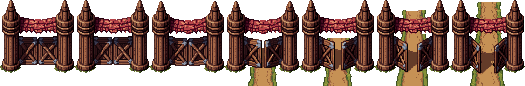
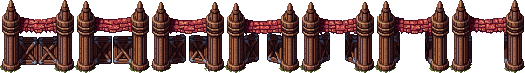
fix: villagers stay visible while they walk through an open village gate
Walkers through the south gate were drawn under the whole gate sprite, and the open
frames are opaque across the passage, so a villager vanished for about three seconds
on both the palisade and the stone gate. The gate is now drawn twice around them:
whole underneath, then clipped to everything but its doorway on top, so the towers,
the lintel and the arch still cover them and the doorway does not. The export writes
each gate's doorway into layout.json, and GATE_Z keeps the draw order in one place.

The open palisade frames also painted a road of their own through the gateway, in
other colours than the village road. New frames leave the gateway empty, and the wall
ring gets a gap behind the doorway, so the village road shows between the open doors.

diff --git a/tests/pixelScene.test.tsx b/tests/pixelScene.test.tsx
@@ -6,6 +6,8 @@ import { useGameStore } from '../src/state/gameStore';
 import { useUiStore } from '../src/state/uiStore';
 import { PixelVillageScene } from '../src/ui/scene/pixel/PixelVillageScene';
 import { useWalkerLoop } from '../src/ui/scene/pixel/Walkers';
+import { wallLayers } from '../src/ui/scene/pixel/WallRing';
+import { buildRoutes, gateOpen } from '../src/ui/scene/pixel/routes';
 import { LAYOUT } from '../src/ui/scene/pixel/layout';
 import { newDefaultGame, activeVillage } from './helpers';
 
@@ -140,6 +142,38 @@ describe('pixel village scene', () => {
       const gate = scene().querySelector(`[data-anim="${kind}-gate"]`)!;
       const foot = Number(gate.getAttribute('y')) + closedFoot[kind];
       expect(Math.abs(foot - wallBase), `${kind} gate foot ${foot}, wall base ${wallBase}`).toBeLessThanOrEqual(4);
+      cleanup();
+    }
+  });
+
+  it('walkers through the gate draw over the whole gate and under its front, after every front wall strip', () => {
+    const levels = { ...Object.fromEntries(BUILDING_IDS.map((id) => [id, 0])), main: 5, wood: 5 } as Record<BuildingId, number>;
+    const routes = buildRoutes({ levels, construction: [{ building: 'main', ratio: 0.2, started: true }] }, { citizens: 10, guards: 0 });
+    const through = routes.filter((r) => r.points.some((p) => gateOpen([p], LAYOUT.gates.s)));
+    expect(through.map((r) => r.state).sort()).toEqual(['carry_log', 'walk']);
+    for (const kind of ['palisade', 'stone'] as const) {
+      const layers = wallLayers(kind, 6);
+      const z = (key: string) => layers.find((l) => l.key === key)?.z ?? NaN;
+      const strips = layers.filter((l) => l.key.startsWith('wall-f')).map((l) => l.z);
+      expect(Math.max(...strips), kind).toBeLessThan(z('wall-gate'));
+      for (const r of through) {
+        expect(r.z, `${kind} ${r.state}`).toBeGreaterThan(z('wall-gate'));
+        expect(r.z, `${kind} ${r.state}`).toBeLessThan(z('wall-gate-front'));
+      }
+    }
+  });
+
+  it('the gate front shows the same frame as the gate, clipped by a shape defined in the scene', () => {
+    for (const [kind, wall] of [['palisade', 1], ['stone', 20]] as const) {
+      setup({ main: 5, wall });
+      const c = scene();
+      const gate = c.querySelector(`[data-anim="${kind}-gate"]`)!;
+      const front = c.querySelector(`[data-anim="${kind}-gate-front"]`);
+      expect(front, kind).not.toBeNull();
+      expect(front!.innerHTML).toBe(gate.innerHTML);
+      expect(['x', 'y'].map((a) => front!.getAttribute(a))).toEqual(['x', 'y'].map((a) => gate.getAttribute(a)));
+      const id = /^url\(#(.+)\)$/.exec(front!.parentElement!.getAttribute('clip-path') ?? '')?.[1];
+      expect(c.querySelector(`clipPath[id="${id}"] path`), kind).not.toBeNull();
       cleanup();
     }
   });

diff --git a/src/ui/scene/pixel/WallRing.tsx b/src/ui/scene/pixel/WallRing.tsx
@@ -1,13 +1,15 @@
 import { t } from '../../../i18n/i18n';
-import type { ReactNode } from 'react';
 import type { BuildingId } from '../../../engine/types';
 import type { DayPhase } from '../sceneModel';
 import { LevelBadge } from './LevelBadge';
-import { LAYOUT, pixelUrl, type Layer, type WallKind } from './layout';
+import { GATE_Z, LAYOUT, pixelUrl, type Layer, type WallKind } from './layout';
 import { Strip } from './Strip';
 
-/** Wall ring as 8 px columns: back halves sort behind the buildings inside, front halves in front of them. */
-export function wallLayers(kind: WallKind, gateFrame: number, gate: (node: ReactNode) => ReactNode = (n) => n): Layer[] {
+/**
+ * Wall ring as 8 px columns: back halves sort behind the buildings inside, front halves in front of them. The gate is drawn
+ * twice around the walkers going through it: whole, then clipped to everything but its doorway.
+ */
+export function wallLayers(kind: WallKind, gateFrame: number): Layer[] {
   const wall = LAYOUT.walls[kind];
   const back = pixelUrl(wall.back);
   const front = pixelUrl(wall.front);
@@ -27,11 +29,28 @@ export function wallLayers(kind: WallKind, gateFrame: number, gate: (node: React
     }
   }
   const g = wall.gate;
-  layers.push({
-    z: LAYOUT.ring.cy + LAYOUT.ring.ry + 3,
-    key: 'wall-gate',
-    node: gate(<Strip name={`${kind}-gate`} file={g.file} w={g.w} h={g.h} frames={g.frames} frame={gateFrame} x={Math.floor(g.x - g.w / 2)} y={Math.floor(g.y - g.foot)} />),
-  });
+  const x = Math.floor(g.x - g.w / 2);
+  const y = Math.floor(g.y - g.foot);
+  const strip = { file: g.file, w: g.w, h: g.h, frames: g.frames, frame: gateFrame, x, y };
+  const box = (x0: number, y0: number, x1: number, y1: number) => `M${x + x0} ${y + y0}h${x1 - x0}v${y1 - y0}h${x0 - x1}z`;
+  const clip = `px-gate-front-${kind}`;
+  layers.push(
+    { z: GATE_Z.gate, key: 'wall-gate', node: <Strip name={`${kind}-gate`} {...strip} /> },
+    {
+      z: GATE_Z.front,
+      key: 'wall-gate-front',
+      node: (
+        <>
+          <clipPath id={clip}>
+            <path d={box(0, 0, g.w, g.h) + g.doorway.map((d) => box(...d)).join('')} clipRule="evenodd" />
+          </clipPath>
+          <g clipPath={`url(#${clip})`}>
+            <Strip name={`${kind}-gate-front`} {...strip} />
+          </g>
+        </>
+      ),
+    },
+  );
   return layers;
 }
 

diff --git a/src/ui/scene/pixel/routes.ts b/src/ui/scene/pixel/routes.ts
@@ -1,6 +1,6 @@
 import type { BuildingId } from '../../../engine/types';
 import type { SceneModel } from '../sceneModel';
-import { LAYOUT } from './layout';
+import { GATE_Z, LAYOUT } from './layout';
 import { loop, type Pt } from './path';
 
 export type WalkerState = 'walk' | 'carry_log' | 'carry_sack' | 'spear';
@@ -19,8 +19,6 @@ export interface Route {
 const ORDER: BuildingId[] = ['main', 'barracks', 'market', 'stable', 'academy', 'smithy', 'storage', 'workshop', 'hide'];
 const SPEED = 17;
 const GUARD_SPEED = 12;
-/** Through the south gate: drawn over the front wall, under the gatehouse. */
-const GATE_Z = LAYOUT.ring.cy + LAYOUT.ring.ry + 2;
 
 function road(key: string): Pt[] | null {
   return LAYOUT.roads[key]?.points ?? null;
@@ -49,13 +47,13 @@ export function buildRoutes(m: Pick<SceneModel, 'levels' | 'construction'>, budg
     const gate = road('gate')!.slice(1);
     const [gx] = LAYOUT.gates.s;
     const outside: Pt = [gx, LAYOUT.ring.cy + LAYOUT.ring.ry + 60];
-    extras.push({ state: 'walk', points: loop([...gate].reverse().concat([outside])), offset: 20, speed: SPEED, z: GATE_Z });
+    extras.push({ state: 'walk', points: loop([...gate].reverse().concat([outside])), offset: 20, speed: SPEED, z: GATE_Z.walker });
     const site = m.construction.find((c) => c.started)?.building;
     const siteRoad = site ? road(site) : null;
     const wood = road('wood');
     if (siteRoad && levels.wood > 0 && wood) {
       const fork: Pt = [gx + 6, LAYOUT.ring.cy + LAYOUT.ring.ry + 26];
-      extras.push({ state: 'carry_log', points: loop([...wood].reverse().concat([fork], gate, siteRoad.slice(1))), offset: 0, speed: SPEED, z: GATE_Z });
+      extras.push({ state: 'carry_log', points: loop([...wood].reverse().concat([fork], gate, siteRoad.slice(1))), offset: 0, speed: SPEED, z: GATE_Z.walker });
     }
     const storage = road('storage');
     if (siteRoad && site !== 'storage' && levels.storage > 0 && storage) {

diff --git a/src/ui/scene/pixel/layout.ts b/src/ui/scene/pixel/layout.ts
@@ -31,8 +31,11 @@ export interface PixelLayout {
   walls: Record<WallKind, {
     x: number; y: number; w: number; h: number; back: string; front: string;
     strips: { x0: number; zBack: number; zFront: number }[];
-    /** `y` is where the closed gate stands; `foot` is that row inside a frame, above the open doors' swing. */
-    gate: StripInfo & { x: number; y: number; foot: number };
+    /**
+     * `y` is where the closed gate stands; `foot` is that row inside a frame, above the open doors' swing. `doorway` is
+     * where walkers pass, as [x0, y0, x1, y1) boxes inside a frame.
+     */
+    gate: StripInfo & { x: number; y: number; foot: number; doorway: [number, number, number, number][] };
   }>;
   anim: {
     iron: StripInfo & { stage: 2 };
@@ -46,6 +49,13 @@ export interface PixelLayout {
 export interface Layer { z: number; key: string; node: ReactNode }
 
 export const LAYOUT = raw as unknown as PixelLayout;
+
+const WALL_BASE = LAYOUT.ring.cy + LAYOUT.ring.ry;
+/**
+ * Draw order at the south gate. The front wall strips reach `WALL_BASE + 1`. Over them goes the whole gate, then the
+ * walkers going through it, then the gate again without its doorway, so its towers and lintel cover them and the doorway does not.
+ */
+export const GATE_Z = { gate: WALL_BASE + 1.5, walker: WALL_BASE + 2, front: WALL_BASE + 3 };
 
 const URLS = import.meta.glob<string>('../../../assets/pixel/village/**/*.png', { eager: true, query: '?url', import: 'default' });
 const PREFIX = '../../../assets/pixel/village/';

diff --git a/tests/pixelLayout.test.ts b/tests/pixelLayout.test.ts
@@ -36,6 +36,20 @@ describe('pixel layout', () => {
     expect([0, 1, 2, 3].map((v) => wallKind(v as 0 | 1 | 2 | 3))).toEqual([null, 'palisade', 'palisade', 'stone']);
   });
 
+  it('the doorway of both gates holds a walker standing in the gate on the wall base, so the gate front leaves it uncovered', () => {
+    // Opaque columns of a walker sprite around its anchor, and the part of its height that must show between the open doors.
+    const half = 7;
+    const body = 20;
+    const [x, foot] = [LAYOUT.gates.s[0], LAYOUT.ring.cy + LAYOUT.ring.ry];
+    for (const kind of ['palisade', 'stone'] as const) {
+      const g = LAYOUT.walls[kind].gate;
+      const left = Math.floor(g.x - g.w / 2);
+      const top = Math.floor(g.y - g.foot);
+      const holds = g.doorway.some(([x0, y0, x1, y1]) => left + x0 <= x - half && x + half <= left + x1 && top + y0 <= foot - body && foot <= top + y1);
+      expect(holds, `${kind} doorway ${JSON.stringify(g.doorway)}`).toBe(true);
+    }
+  });
+
   it('ringY gives cy ± ry on the vertical axis and cy outside the ellipse', () => {
     const { cx, cy, ry, rx } = LAYOUT.ring;
     expect(ringY(cx, 'north')).toBeCloseTo(cy - ry);

diff --git a/scripts/pixel/export.py b/scripts/pixel/export.py
@@ -87,18 +87,26 @@ shutil.rmtree(OUT, ignore_errors=True)
 os.makedirs(OUT)
 tmp = tempfile.mkdtemp()
 
+# Where walkers pass through each gate, as [x0, y0, x1, y1) boxes in its frames: between the towers below the lintel (palisade),
+# the arch and the paving in front of it (stone). The game draws the gate again over walkers with these left out.
+DOORWAY = {'palisade': [[21, 33, 54, 73]], 'stone': [[32, 57, 66, 107]]}
+
 walls, ring, gates = {}, None, None
-for kind, name, gate_dir in (('stone', 'wall-ring-big', 'stone-gate'), ('palisade', 'wall-ring-palisade', 'palisade-gate')):
+for kind, name, gate_dir in (('stone', 'wall-ring-big', 'stone-gate'), ('palisade', 'wall-ring-palisade', 'palisade-gate-empty-1')):
     r = parts.ring_split(A, name, G.RING)
     ring, gates = r['ring'], r['gates']
     gfs = union_crop([Image.open(f).convert('RGBA') for f in numbered(f'{A}/anim/{gate_dir}/frame_*.png')])
     gw, gh = gfs[0].size
+    gate = {'file': save(strip(gfs), f'walls/{kind}-gate.png'), 'w': gw, 'h': gh, 'frames': len(gfs),
+            'x': r1(gates['s'][0]), 'y': r1(gates['s'][1] + 4), 'foot': gfs[0].getbbox()[3], 'doorway': DOORWAY[kind]}
+    # The ring runs on behind the gate; open its front half behind the doorway, so the road shows between the open doors.
+    gx, gy = math.floor(gate['x'] - gw / 2) - r['x'], math.floor(gate['y'] - gate['foot']) - r['y']
+    for x0, _, x1, y1 in DOORWAY[kind]:
+        r['front'].paste((0, 0, 0, 0), (gx + x0, gy, gx + x1, gy + y1))
     walls[kind] = {
         'x': r['x'], 'y': r['y'], 'w': r['back'].width, 'h': r['back'].height,
         'back': save(r['back'], f'walls/{kind}-back.png'), 'front': save(r['front'], f'walls/{kind}-front.png'),
-        'strips': r['strips'],
-        'gate': {'file': save(strip(gfs), f'walls/{kind}-gate.png'), 'w': gw, 'h': gh, 'frames': len(gfs),
-                 'x': r1(gates['s'][0]), 'y': r1(gates['s'][1] + 4), 'foot': gfs[0].getbbox()[3]},
+        'strips': r['strips'], 'gate': gate,
     }
 
 env = dict(os.environ, GATES=json.dumps({k: list(v) for k, v in gates.items()}), BASE=f'{tmp}/base.png', EXPORT_DIR=f'{tmp}/ex')
